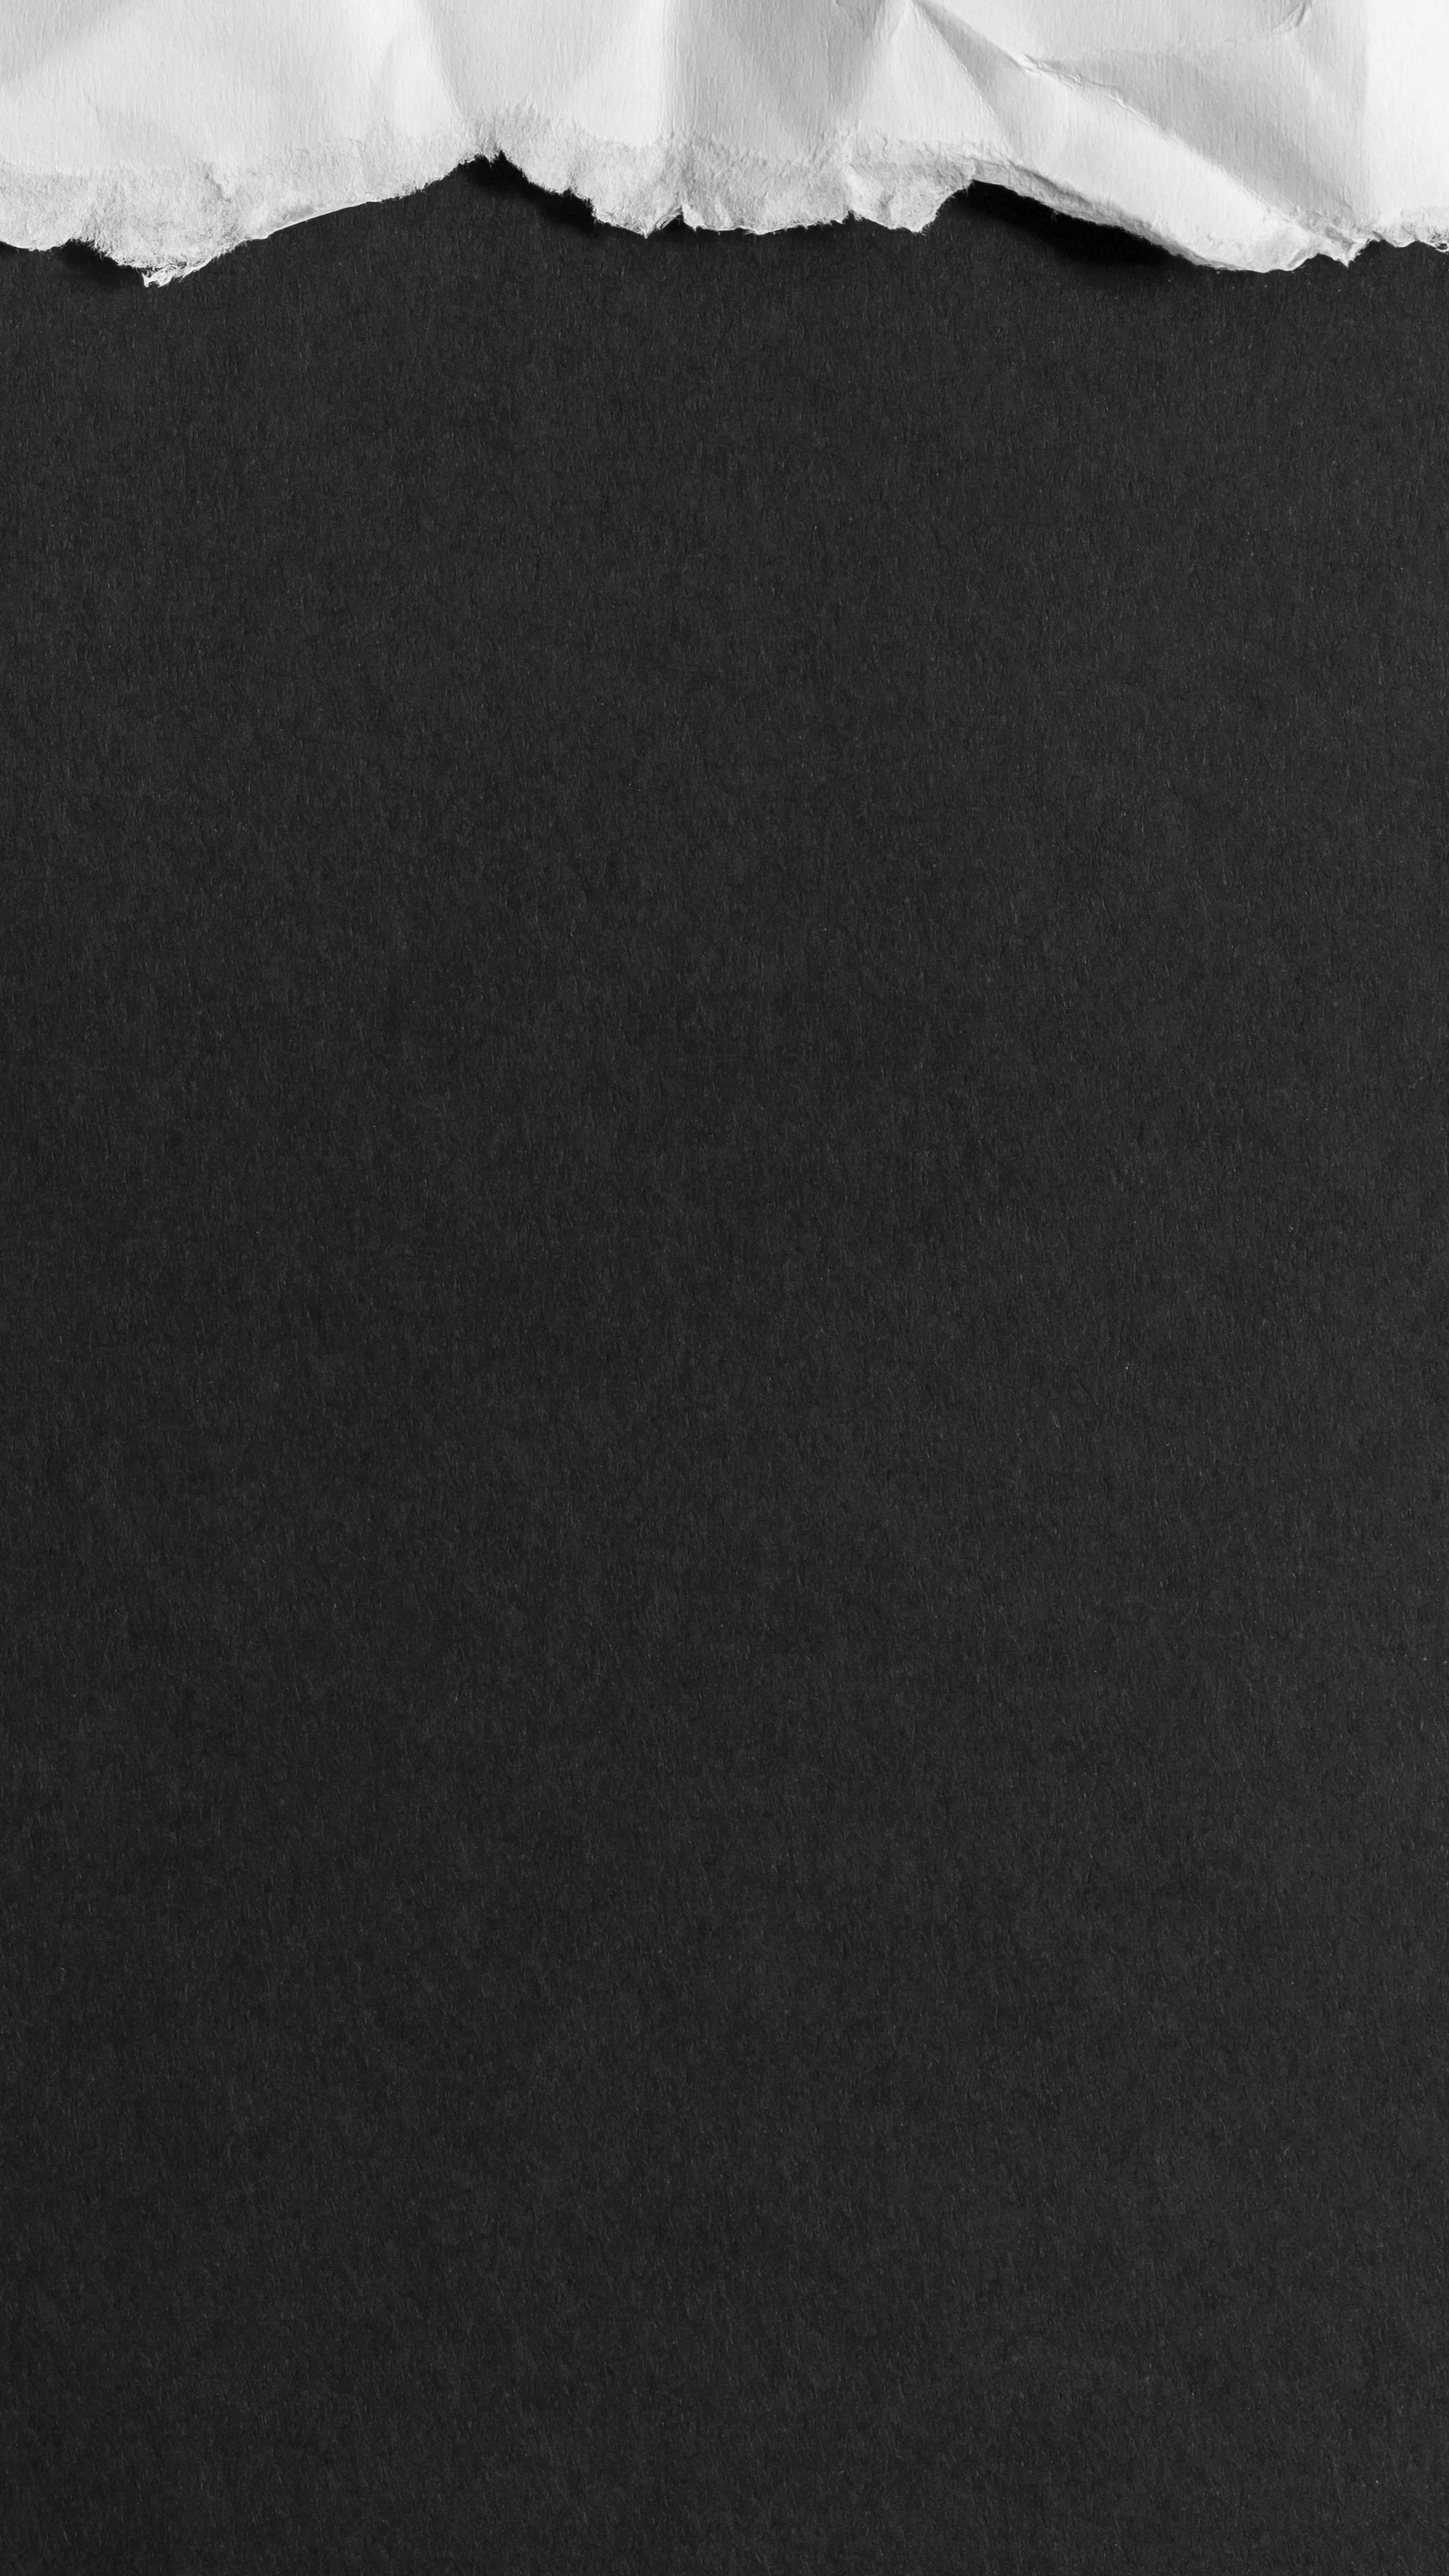
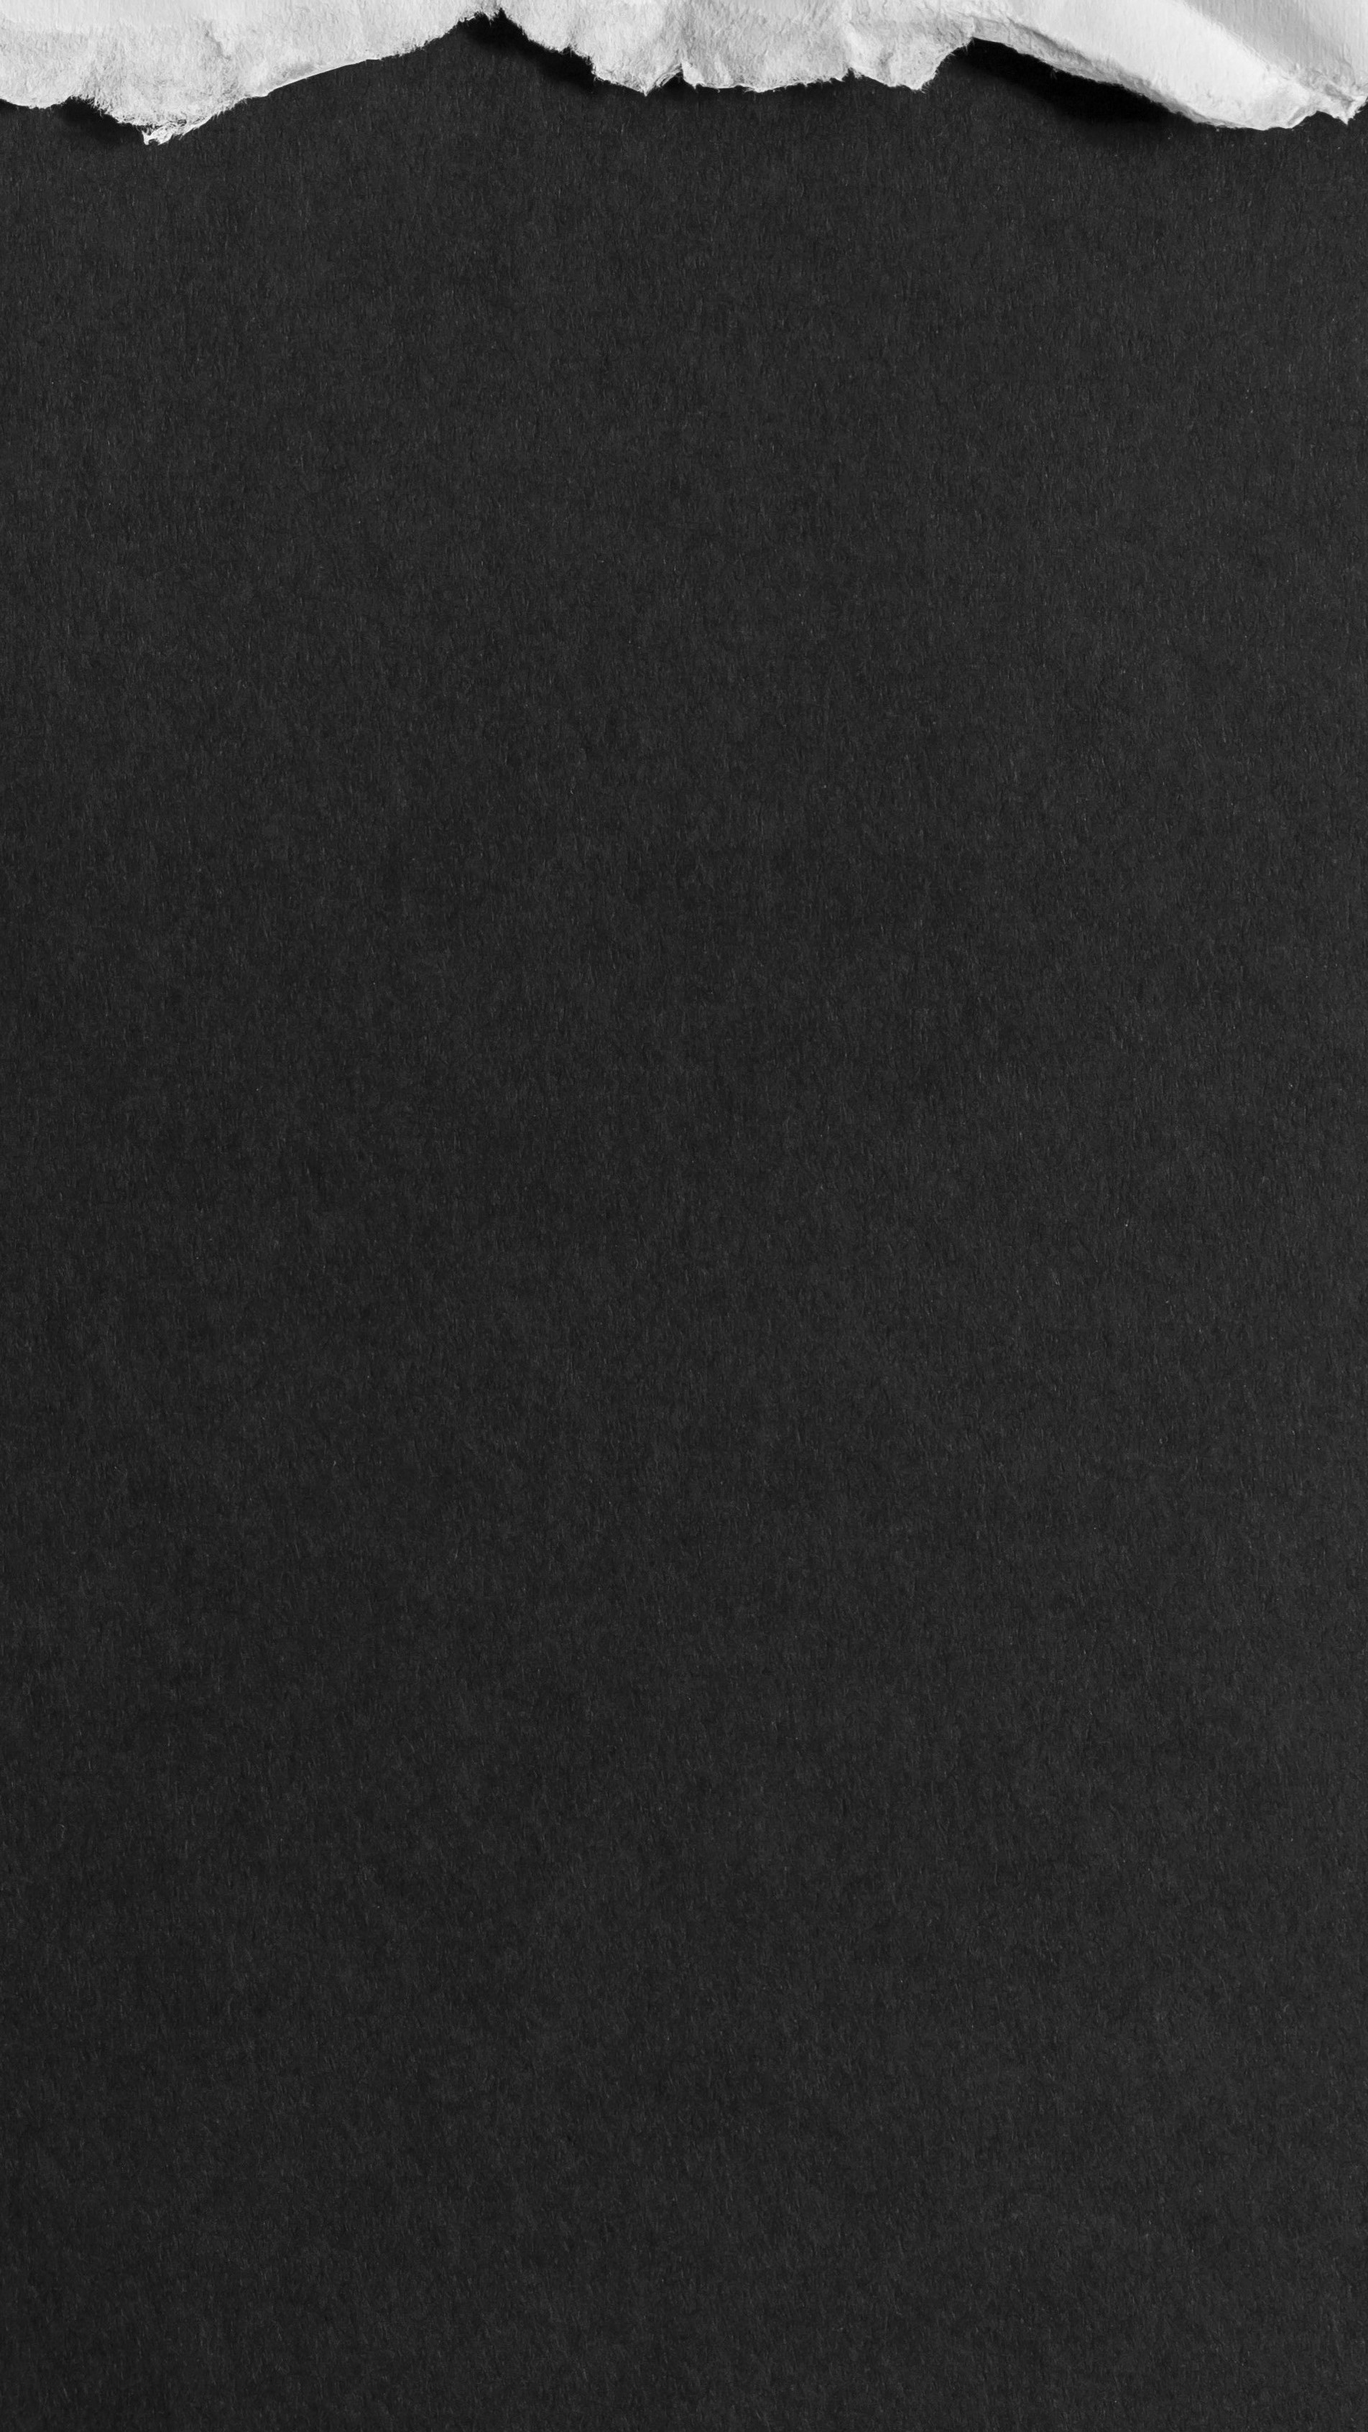
Updated headshot and mobile background. Changed mobile heading and hr tag colors.

Changed region(s): [[0.0, 0.0, 1.0, 0.1241]]

diff --git a/index.html b/index.html
@@ -31,7 +31,7 @@
         <main class="tinted-image">
             <div class="flex-container flex-column-wrap" id="header-images" style="margin-bottom: 5%;">
                 <section class="flex-container" style="justify-content: flex-start;">
-                    <img class="circular-img fade-in" src="images/Headshot 120x108.jpg" alt="Austin Frey, web developer">
+                    <img class="circular-img fade-in" src="images/Updated Headshot (2) .jpg" alt="Austin Frey, web developer">
                     <h1 class="flex-container chat-bubble-left isolate">Hi! I'm Austin, a full-stack web developer!</h1>
                 </section>
                 <section class="flex-container" style="justify-content: flex-end;">
@@ -145,7 +145,7 @@
                 </article>
             </section>
             <section class="content-section" id="certifications">
-                    <header class="subheader"><h3>Certifications</h3><hr></header>
+                    <header class="subheader"><h2>CERTIFICATIONS</h2><hr></header>
                     <section class="certifications-container">
                         <a class="certification" target="blank" href="https://www.freecodecamp.org/certification/austinlf96/responsive-web-design"><img class="certification" src="certifications/Responsive Web Design.png"></a>
                         <a class="certification" target="blank" href="https://www.freecodecamp.org/certification/austinlf96/javascript-algorithms-and-data-structures"><img class="certification" src="certifications/JavaScript Algorithms and Data Structures.png"></a>
@@ -163,8 +163,8 @@
             <article class="content-section" id="contact">
                 <header id="contact-header" class="subheader"><h2>CONTACT US</h2><hr></header>
                 <section class="flex-container flex-row-wrap" style="justify-content: space-evenly;">
-                    <article style="font-size: 2rem;">Email: austinlf96@gmail.com</article>
-                    <article style="font-size: 2rem;">Phone: (717)414-8798</article>
+                    <article style="font-size: 2rem;">Email: <a href="mailto:austinlf96@gmail.com">austinlf96@gmail.com</a></article>
+                    <article style="font-size: 2rem;">Phone: <a href="tel:717-414-8798">(717)414-8798</a></article>
                     <article style="font-size: 2rem; margin-top: 2%; text-align: center;">Sorry, Julian does not accept personal contact requests. 
                         Please contact Austin for all inquiries. Thank you for your understanding!</article>
                     <!--<button>Send me a message</button>-->

diff --git a/styles.css b/styles.css
@@ -46,12 +46,7 @@ a{
 }
 
 body{
-    background-image: 
-        /*linear-gradient( 
-            rgba(40, 40, 40, 0.35),
-            rgba(40, 40, 40, 0.35)),
-*/
-        url("images/smaller\ paper\ background.jpeg");
+    background-image: url("images/smaller\ paper\ background.jpeg");
     background-attachment:fixed;
     background-repeat: no-repeat;
     background-size: cover;
@@ -72,7 +67,7 @@ h3{
 }
 
 hr{
-    color: var(--accent_two);
+    color: var(--logo_font);
 }
 
 main{
@@ -376,7 +371,7 @@ ul{
 }
 
 .subheader{
-    color: var(--logo_font);
+    color: var(--accent_two);
     letter-spacing: 1rem;
     margin-left: -.5%;
 }
